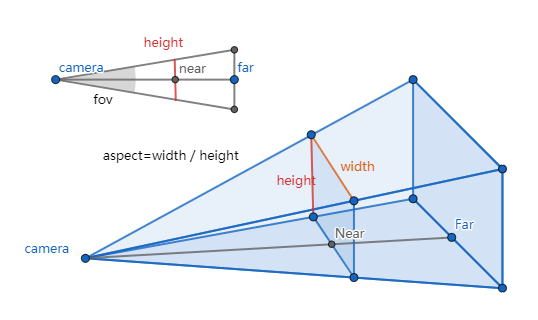
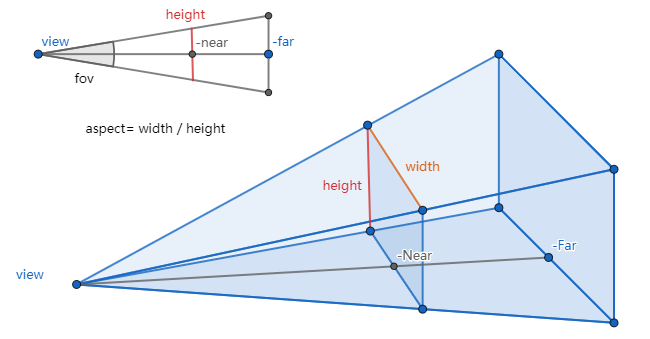
修改坐标系描述错误

diff --git a/_posts/2019-01-22-摄像机公式推导.md b/_posts/2019-01-22-摄像机公式推导.md
@@ -15,7 +15,9 @@
 
 ![image](/img/d_10.png)
 
-观察坐标为右手坐标系，NDC使用左手坐标系。观察空间的x_eye、y_eye与z_eye分量都线性映射到NDC。我们只需将长方体缩放为正方体，然后移动它到原点。让我们使用线性关系推导所有元素。
+观察坐标为右手坐标系，NDC使用左手坐标系。定义屏幕左右边界为left和right 屏幕上下边界为top和bottom，近的裁剪面距离为n，远的裁剪面距离为f。
+
+观察空间的x_eye、y_eye与z_eye分量都线性映射到NDC。我们只需将长方体缩放为正方体，然后移动它到原点。让我们使用线性关系推导所有元素。
 
 ![image](/img/d_13.png)
 
@@ -76,7 +78,7 @@ Matrix4x4f& Matrix4x4f::SetOrtho (
 
 ![image](/img/d_19.png)
 
-最后得出透视投影矩阵：
+最后得出透视投影矩阵，它是通用的，左右两边不对称。投影点不在屏幕中心点。
 
 ![image](/img/d_20.png)
 
@@ -90,7 +92,7 @@ Matrix4x4f& Matrix4x4f::SetOrtho (
 
 + near和far分别是照相机到视景体最近、最远的距离，均为正值，且far应大于near。
 
-当上图椎体对称时：
+当上图椎体对称时，其 right left 大小相同 一正一负，投影点正好在屏幕中心点
 
 
 ![image](/img/d_21.png)
